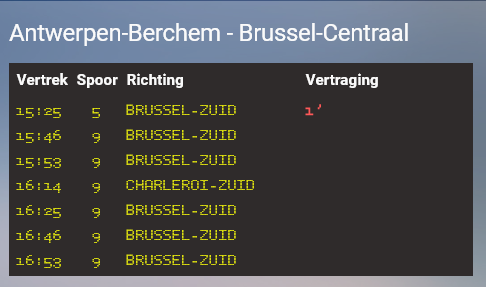
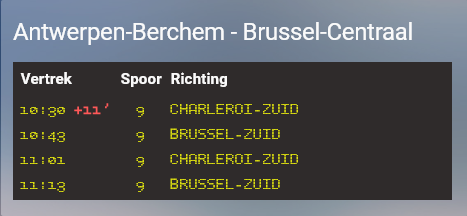
improvements added
- moved delay element
- improved minutes parsing
- renamed class-property
- added 'show' option

diff --git a/nmbs-routeboard/nmbs-routeboard-card.js b/nmbs-routeboard/nmbs-routeboard-card.js
@@ -32,7 +32,6 @@ class NMBSRouteBoardCard extends HTMLElement {
                 <th>Vertrek</th>
                 <th>Spoor</th>
                 <th>Richting</th>
-                <th>Vertraging</th>
             </tr>
             `
             }
@@ -42,7 +41,6 @@ class NMBSRouteBoardCard extends HTMLElement {
                 <th>Départ</th>
                 <th>Voie</th>
                 <th>Direction</th>
-                <th>Délai</th>
             </tr>
             `
             }
@@ -52,7 +50,6 @@ class NMBSRouteBoardCard extends HTMLElement {
                 <th>Departure</th>
                 <th>Track</th>
                 <th>Direction</th>
-                <th>Delay</th>
             </tr>
             `
             }
@@ -62,22 +59,23 @@ class NMBSRouteBoardCard extends HTMLElement {
                 <th>Abfahrt</th>
                 <th>Gleis</th>
                 <th>Bestimmungsort</th>
-                <th>Verspätung</th>
             </tr>
             `
             }
-        for (let i=0 ; i < data.connection.length ; i++) {
+        let y = data.connection.length;
+        if (cardConfig.show) {y= cardConfig.show;}
+        for (let i=0 ; i < y ; i++) {
           let scheduledTime = new Date(data.connection[i].departure.time * 1000);
           let hours = scheduledTime.getHours();
-          let minutes = scheduledTime.getMinutes();
+          let minutes = ('0' + scheduledTime.getMinutes()).slice(-2);
           let platform = data.connection[i].departure.platform;
           let direction = data.connection[i].arrival.direction.name;
           let delay = data.connection[i].departure.delay;
           let delayString;
           if (delay == 0) {delayString = '';}
-          else {delay = delay / 60; delayString = delay + "'";}
+          else {delay = delay / 60; delayString = "+" + delay + "'";}
 
-          let row = '<tr><td class="time">'+ hours + ':' + minutes + '</td><td class="platform"><span class="platformNumber">' + platform + '</span></td><td class="direction">' + direction + '</td><td class="delay">' + delayString + '</td></tr>';
+          let row = '<tr><td class="time">'+ hours + ':' + minutes + '<span class="delay">' + delayString + '</span></td><td class="platform"><span class="platformNumber">' + platform + '</span></td><td class="direction">' + direction + '</td></tr>';
 
           table = table + row;
         }
@@ -92,7 +90,7 @@ class NMBSRouteBoardCard extends HTMLElement {
     const card = document.createElement('ha-card');
     const content = document.createElement('div');
     content.innerHTML = `
-    <div id="title" class="card-header"></div>
+    <div id="title" class="cardHeader"></div>
     <div class="container">
       <div class="tableContainer">
         <table id="trains"></table>

diff --git a/nmbs-routeboard/readme.md b/nmbs-routeboard/readme.md
@@ -9,7 +9,7 @@ The card is deliberately unstyled, but all elements have css class attributes so
 However, I have included the webfont I'm using in my personal style for you if you wish to use this as well. [Attribution for included font](https://www.fontsquirrel.com/license/BPdots)
 
 ## Installing
-Upload all files to your custom cards folder of your home assistant instance. Add these lines to the resources section of your ui-lovelace.yaml (adapt the folder name if necessary):
+Upload all files to your custom cards folder of your home assistant instance. Add these lines to the resources section of your ui-lovelace.yaml (adapt the folder name if necessary, adapt the version number when upgrading):
 
 ```yaml
 - url: /local/custom_cards/nmbs-routeboard-card.js?v=0.001
@@ -30,6 +30,7 @@ Example configuration:
   departureStation: 'Antwerpen-Berchem'
   arrivalStation: 'Brussel-Centraal'
   lang: 'nl'
+  show: 4
 ```
 
 ## Options
@@ -40,6 +41,7 @@ Example configuration:
 | departureStation | string | **Required** | a station that's listed in https://api.irail.be/stations/
 | arrivalStation | string | **Required** | a station that's listed in https://api.irail.be/stations/
 | lang | string | **Required** | choose between `nl`, `fr`, `en`, `de`  (table header and station names will be translated)
+| show | number (int) | optional | the amount of trains to show (min 1 - max 6)
 
 ## Styling:
 
@@ -50,12 +52,12 @@ You can address these elements and css classes:
 | table | the `<table>` element
 | th | the first row / header of the table
 | tr | other table rows
-| .card-header | the card title (your route)
+| .cardHeader | the card title (your route)
 | .tableContainer | can be used to style the background of the table
 | .time |  first column of table row (`<tr>` element)
+| .delay | a `<span>` element within the time column
 | .platform | second column of table row (`<tr>` element)
 | .platformNumber | a `<span>` element containing the track number
 | .direction | third column of table row (`<tr>` element)
-| .delay | fourth column of table row (`<tr>` element)
 
 
